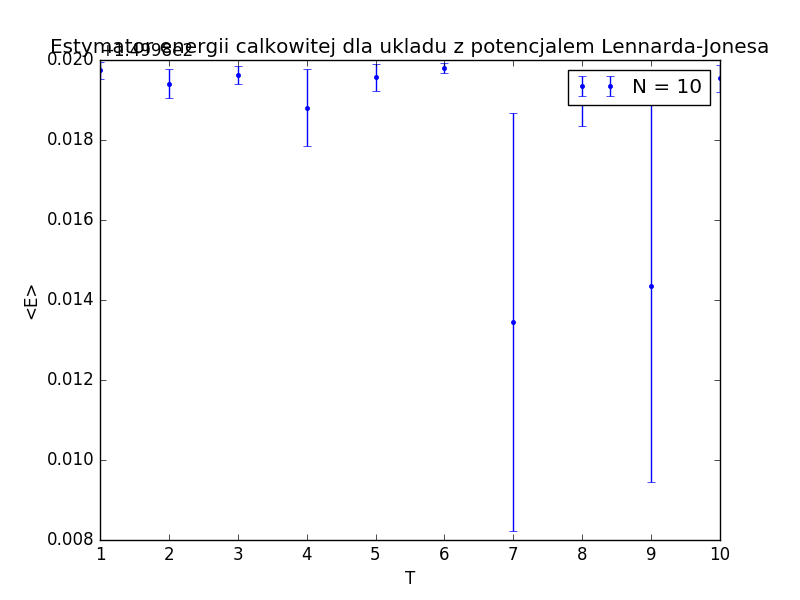
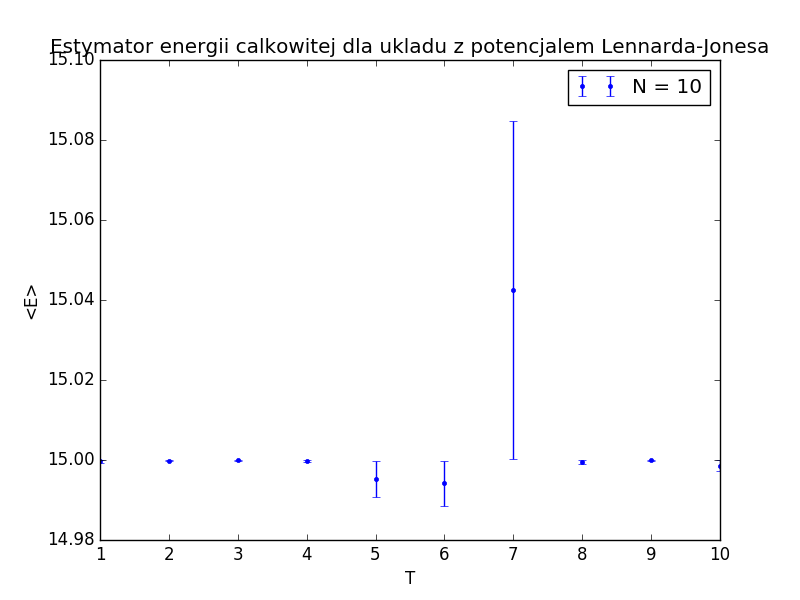
some small bug fixed

diff --git a/main.py b/main.py
@@ -83,7 +83,6 @@ def dynamics(r, steps, sweep, sigma0, k_b, T, m, w, LJ_pot, LJ_eps, LJ_sigma):
         accrate=1.0*sum(accdata)/len(accdata)
         sigma = sigma + 0.01*(accrate-0.5)
         if sigma <= 0.0: sigma = 1.0e-9 # must be positive
-        print ii, accrate, sigma
 
         cutoff = 0.1
 
@@ -112,7 +111,7 @@ def dynamics(r, steps, sweep, sigma0, k_b, T, m, w, LJ_pot, LJ_eps, LJ_sigma):
 
 
 def main():
-    N = [100]# 10**2, 10**3, 10**4]
+    N = [10]# 10**2, 10**3, 10**4]
     leg_entries = ['N = 10', 'N = 100', 'N = 1k', 'N = 10k']
     m = 1.
     k = 1.
@@ -121,7 +120,7 @@ def main():
     sigma0 = 0.5
     lj_eps = 1.0
     lj_sigma = 1.0
-    steps = 1000  # min 20
+    steps = 100  # min 20
     sweep = 300
     #calculations and plot for harmonic potential
     # results_E = []
